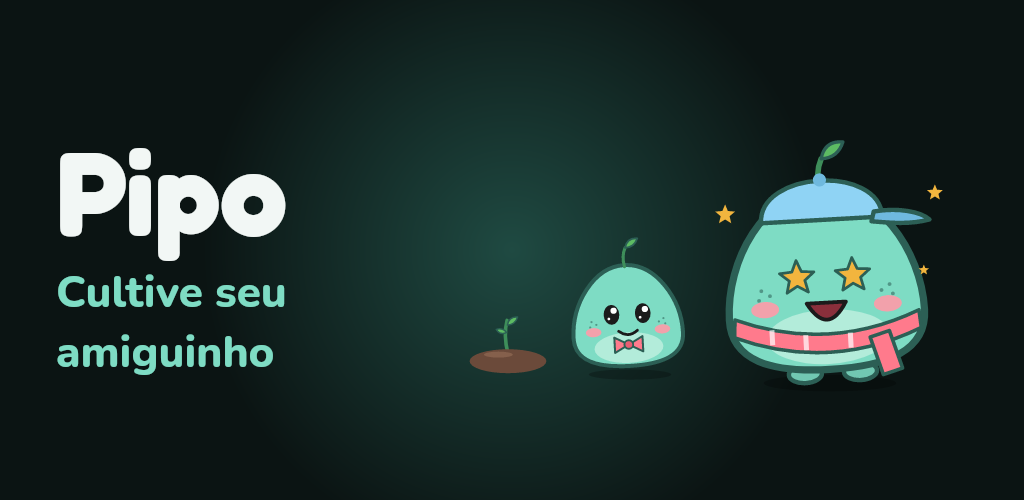
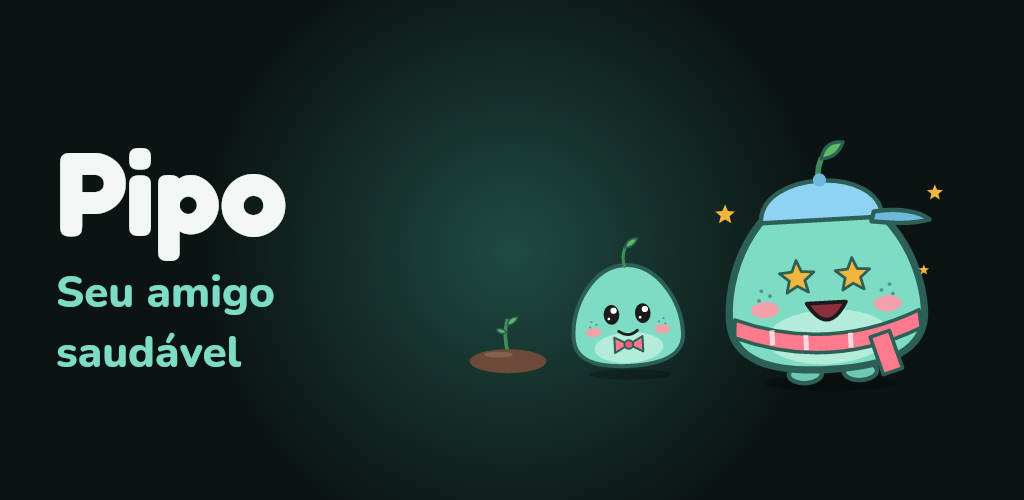
E-mail: slogan 'Seu amigo saudável', telas do celular e ajustes de texto
Claude-Session: https://claude.ai/code/session_01YXtb2gHVbbZjRoDFaEKAaq

Changed region(s): [[0.0312, 0.54, 0.2812, 0.63], [0.0312, 0.66, 0.2812, 0.75]]

diff --git a/email/index.html b/email/index.html
@@ -14,7 +14,7 @@
 <table role="presentation" width="600" cellpadding="0" cellspacing="0" border="0" style="width:100%;max-width:600px;background:#0B1413;font-family:'Nunito',Arial,Helvetica,sans-serif;color:#F2F7F5;">
 
   <tr><td style="padding:0 0 20px 0;">
-    <img src="https://raw.githubusercontent.com/LucasSiqueiraNaN/pipo-privacidade/main/email/destaque.png" width="600" alt="Pipo, cultive seu amiguinho" style="display:block;width:100%;max-width:600px;height:auto;border:0;border-radius:18px;">
+    <img src="https://raw.githubusercontent.com/LucasSiqueiraNaN/pipo-privacidade/main/email/destaque.png" width="600" alt="Pipo, seu amigo saudável" style="display:block;width:100%;max-width:600px;height:auto;border:0;border-radius:18px;">
   </td></tr>
 
   <tr><td style="padding:8px 8px 0 8px;">
@@ -26,17 +26,26 @@
     <table role="presentation" width="100%" cellpadding="0" cellspacing="0" border="0" style="background:#1C2A28;border-radius:18px;">
     <tr><td style="padding:22px 22px 8px 22px;">
       <p style="margin:0 0 8px 0;font-size:12px;letter-spacing:2px;font-weight:800;color:#7EDCC4;">QUEM É O PIPO</p>
-      <p style="margin:0 0 14px 0;font-size:16px;line-height:24px;color:#F2F7F5;">Um bichinho virtual que vive no seu relógio e no celular. Em vez de gráficos, ele mostra como foi o seu dia: bebeu água, dormiu bem e caminhou? Ele fica feliz, cresce e ganha presentes. Esqueceu de se cuidar? Ele murcha um pouquinho.</p>
+      <p style="margin:0 0 14px 0;font-size:16px;line-height:24px;color:#F2F7F5;">Um bichinho virtual que vive no seu relógio ou no celular. Em vez de gráficos, ele mostra como foi o seu dia: bebeu água, dormiu bem e caminhou? Ele fica feliz, cresce e ganha presentes. Esqueceu de se cuidar? Ele vai murchar.</p>
       <table role="presentation" cellpadding="0" cellspacing="0" border="0" style="font-size:15px;line-height:22px;color:#F2F7F5;">
         <tr><td style="padding:3px 10px 3px 0;color:#8FD3F4;font-size:18px;">&#9679;</td><td style="padding:3px 0;"><strong>Água:</strong> 6 copos por dia, marcados com um toque</td></tr>
         <tr><td style="padding:3px 10px 3px 0;color:#B79BD1;font-size:18px;">&#9679;</td><td style="padding:3px 0;"><strong>Sono:</strong> 7 horas ou mais</td></tr>
         <tr><td style="padding:3px 10px 3px 0;color:#7EDCC4;font-size:18px;">&#9679;</td><td style="padding:3px 0;"><strong>Passos:</strong> 6.000 por dia</td></tr>
         <tr><td style="padding:3px 10px 3px 0;color:#FF7A8C;font-size:18px;">&#9679;</td><td style="padding:3px 0;"><strong>Remédios:</strong> o Pipo te lembra na hora certa</td></tr>
       </table>
-      <p style="margin:14px 0 14px 0;font-size:15px;line-height:22px;color:#9DB3AE;">Ele começa como Semente, vira Little Pipo e depois Pipo. A cada nível tem um presente surpresa para o guarda-roupa.</p>
+      <p style="margin:14px 0 14px 0;font-size:15px;line-height:22px;color:#9DB3AE;">Ele começa como Semente, vira Little Pipo e depois Pipo. A cada nível tem um presente surpresa.</p>
     </td></tr>
-    <tr><td style="padding:4px 16px 22px 16px;">
+    <tr><td style="padding:4px 22px 8px 22px;">
+      <p style="margin:0 0 10px 0;font-size:12px;letter-spacing:2px;font-weight:800;color:#9DB3AE;">NO RELÓGIO</p>
+    </td></tr>
+    <tr><td style="padding:0 16px 18px 16px;">
       <img src="https://raw.githubusercontent.com/LucasSiqueiraNaN/pipo-privacidade/main/email/relogios.png" width="536" alt="Telas do Pipo no relógio" style="display:block;width:100%;max-width:536px;height:auto;border:0;">
+    </td></tr>
+    <tr><td style="padding:4px 22px 8px 22px;">
+      <p style="margin:0 0 10px 0;font-size:12px;letter-spacing:2px;font-weight:800;color:#9DB3AE;">NO CELULAR</p>
+    </td></tr>
+    <tr><td style="padding:0 16px 22px 16px;">
+      <img src="https://raw.githubusercontent.com/LucasSiqueiraNaN/pipo-privacidade/main/email/celulares.png" width="536" alt="Telas do Pipo no celular" style="display:block;width:100%;max-width:536px;height:auto;border:0;">
     </td></tr>
     </table>
   </td></tr>
